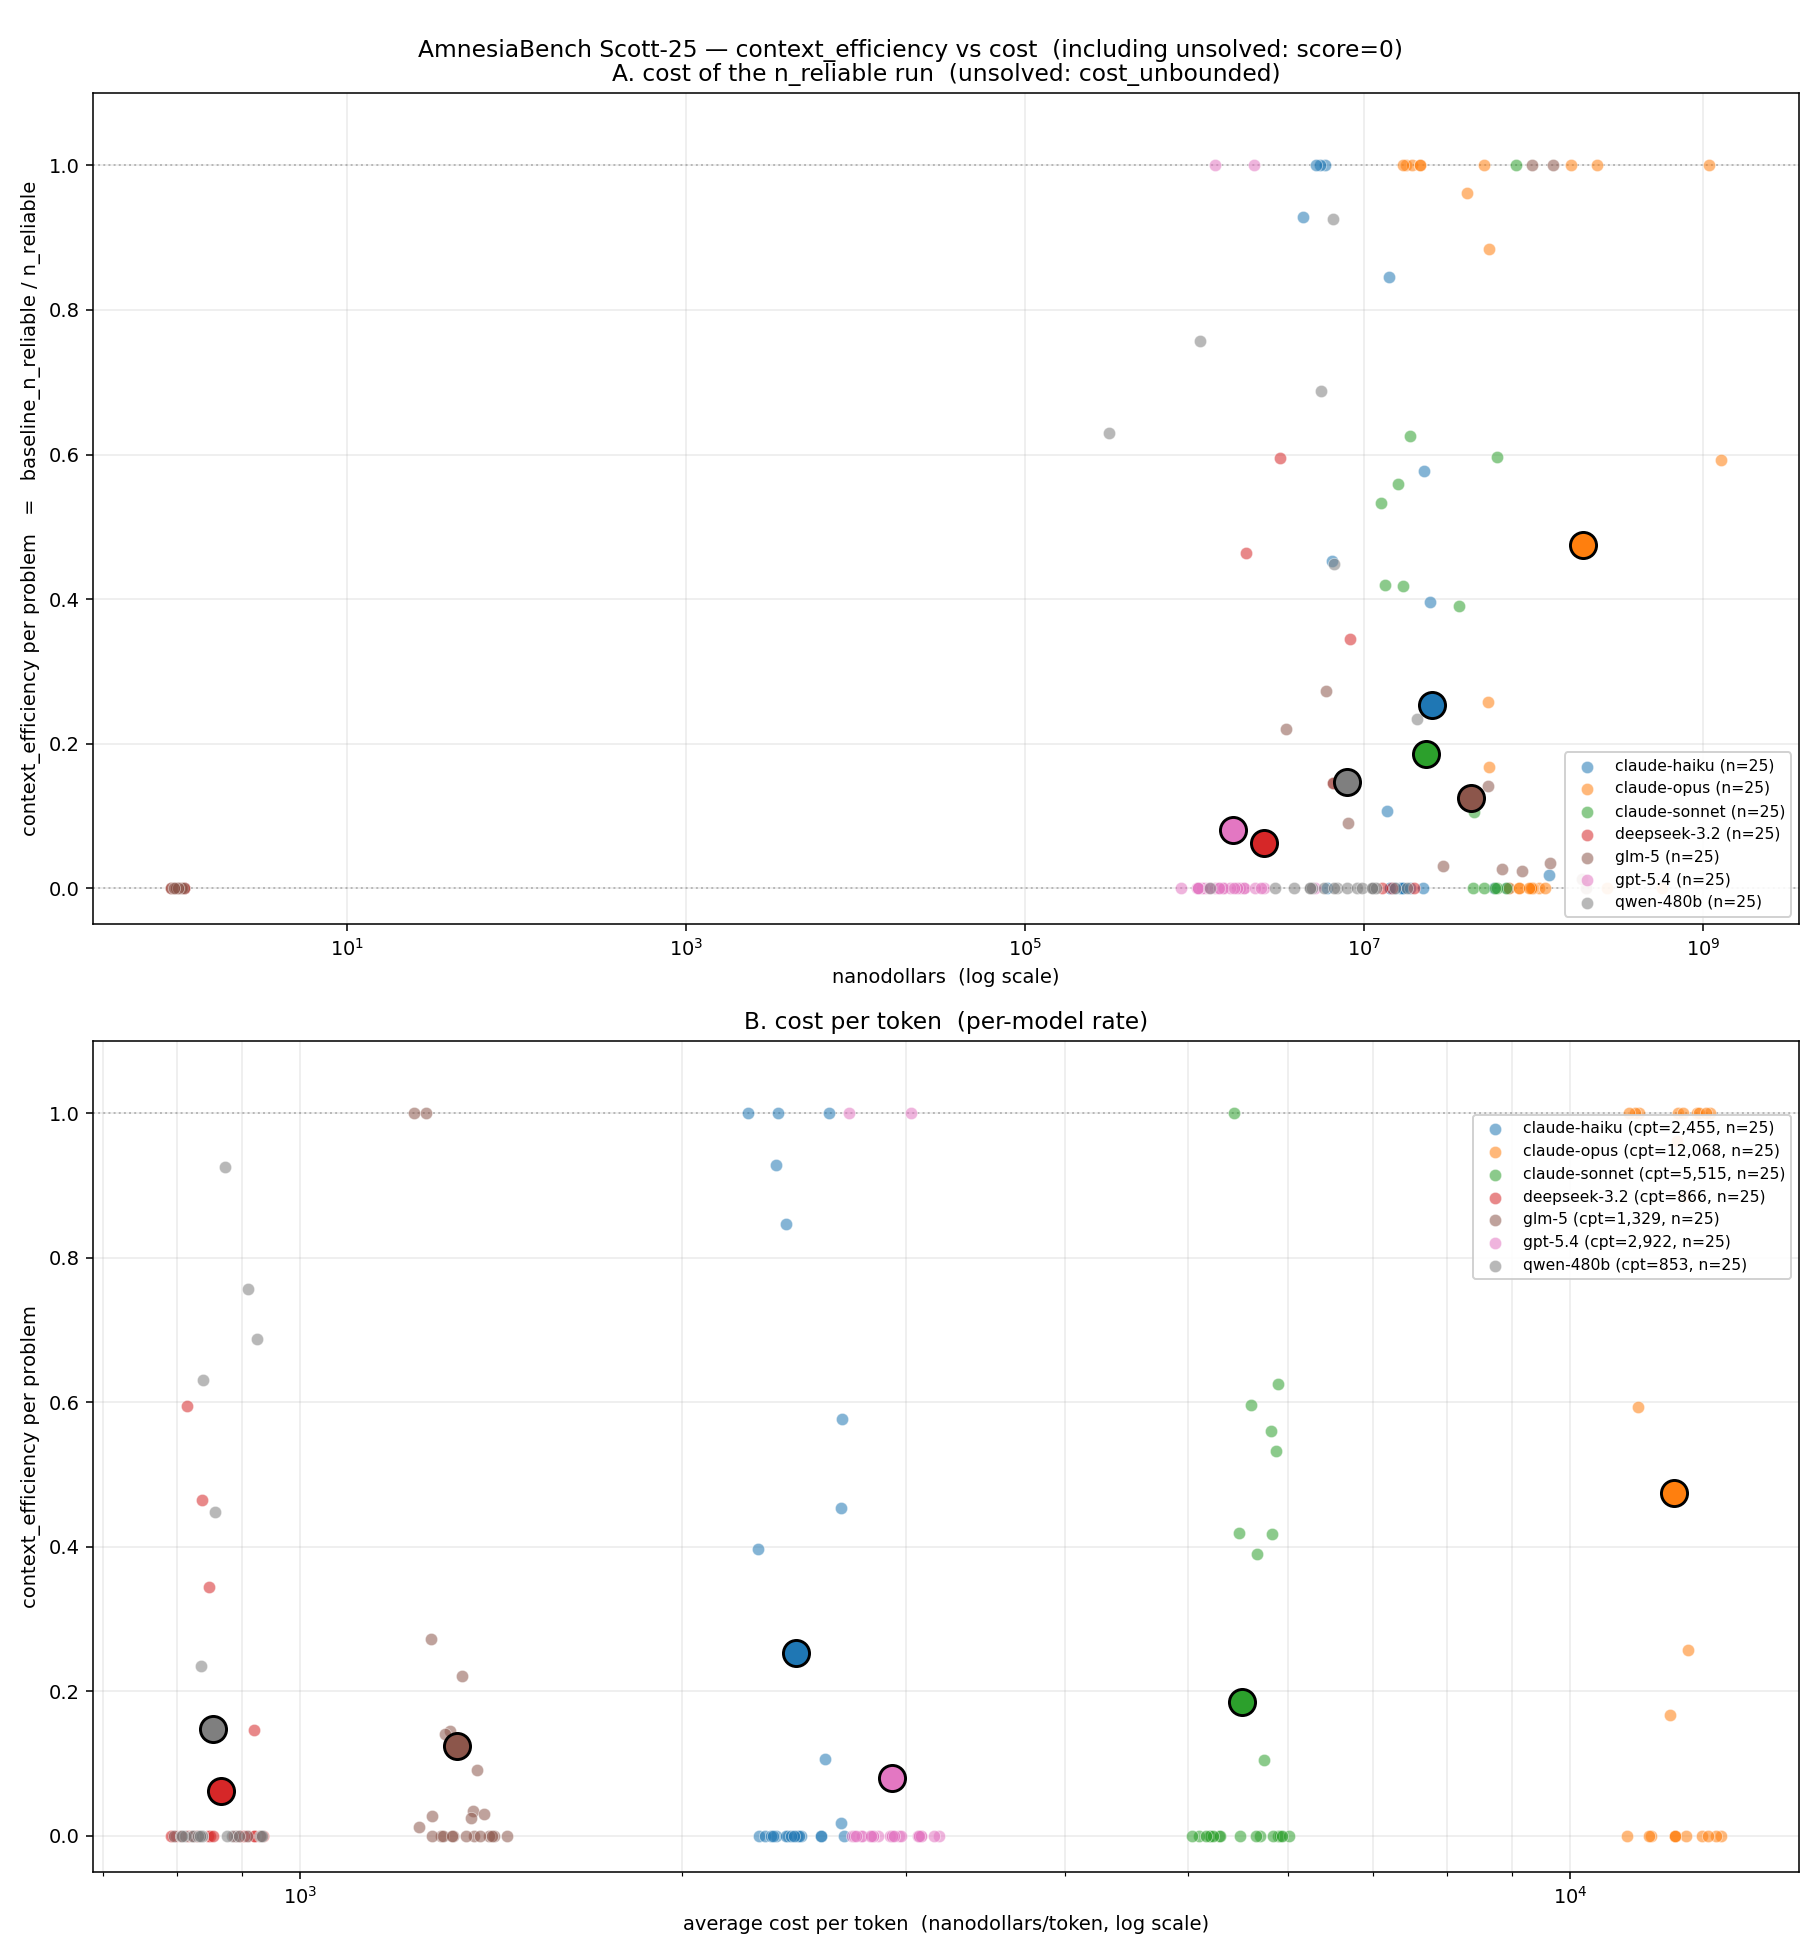
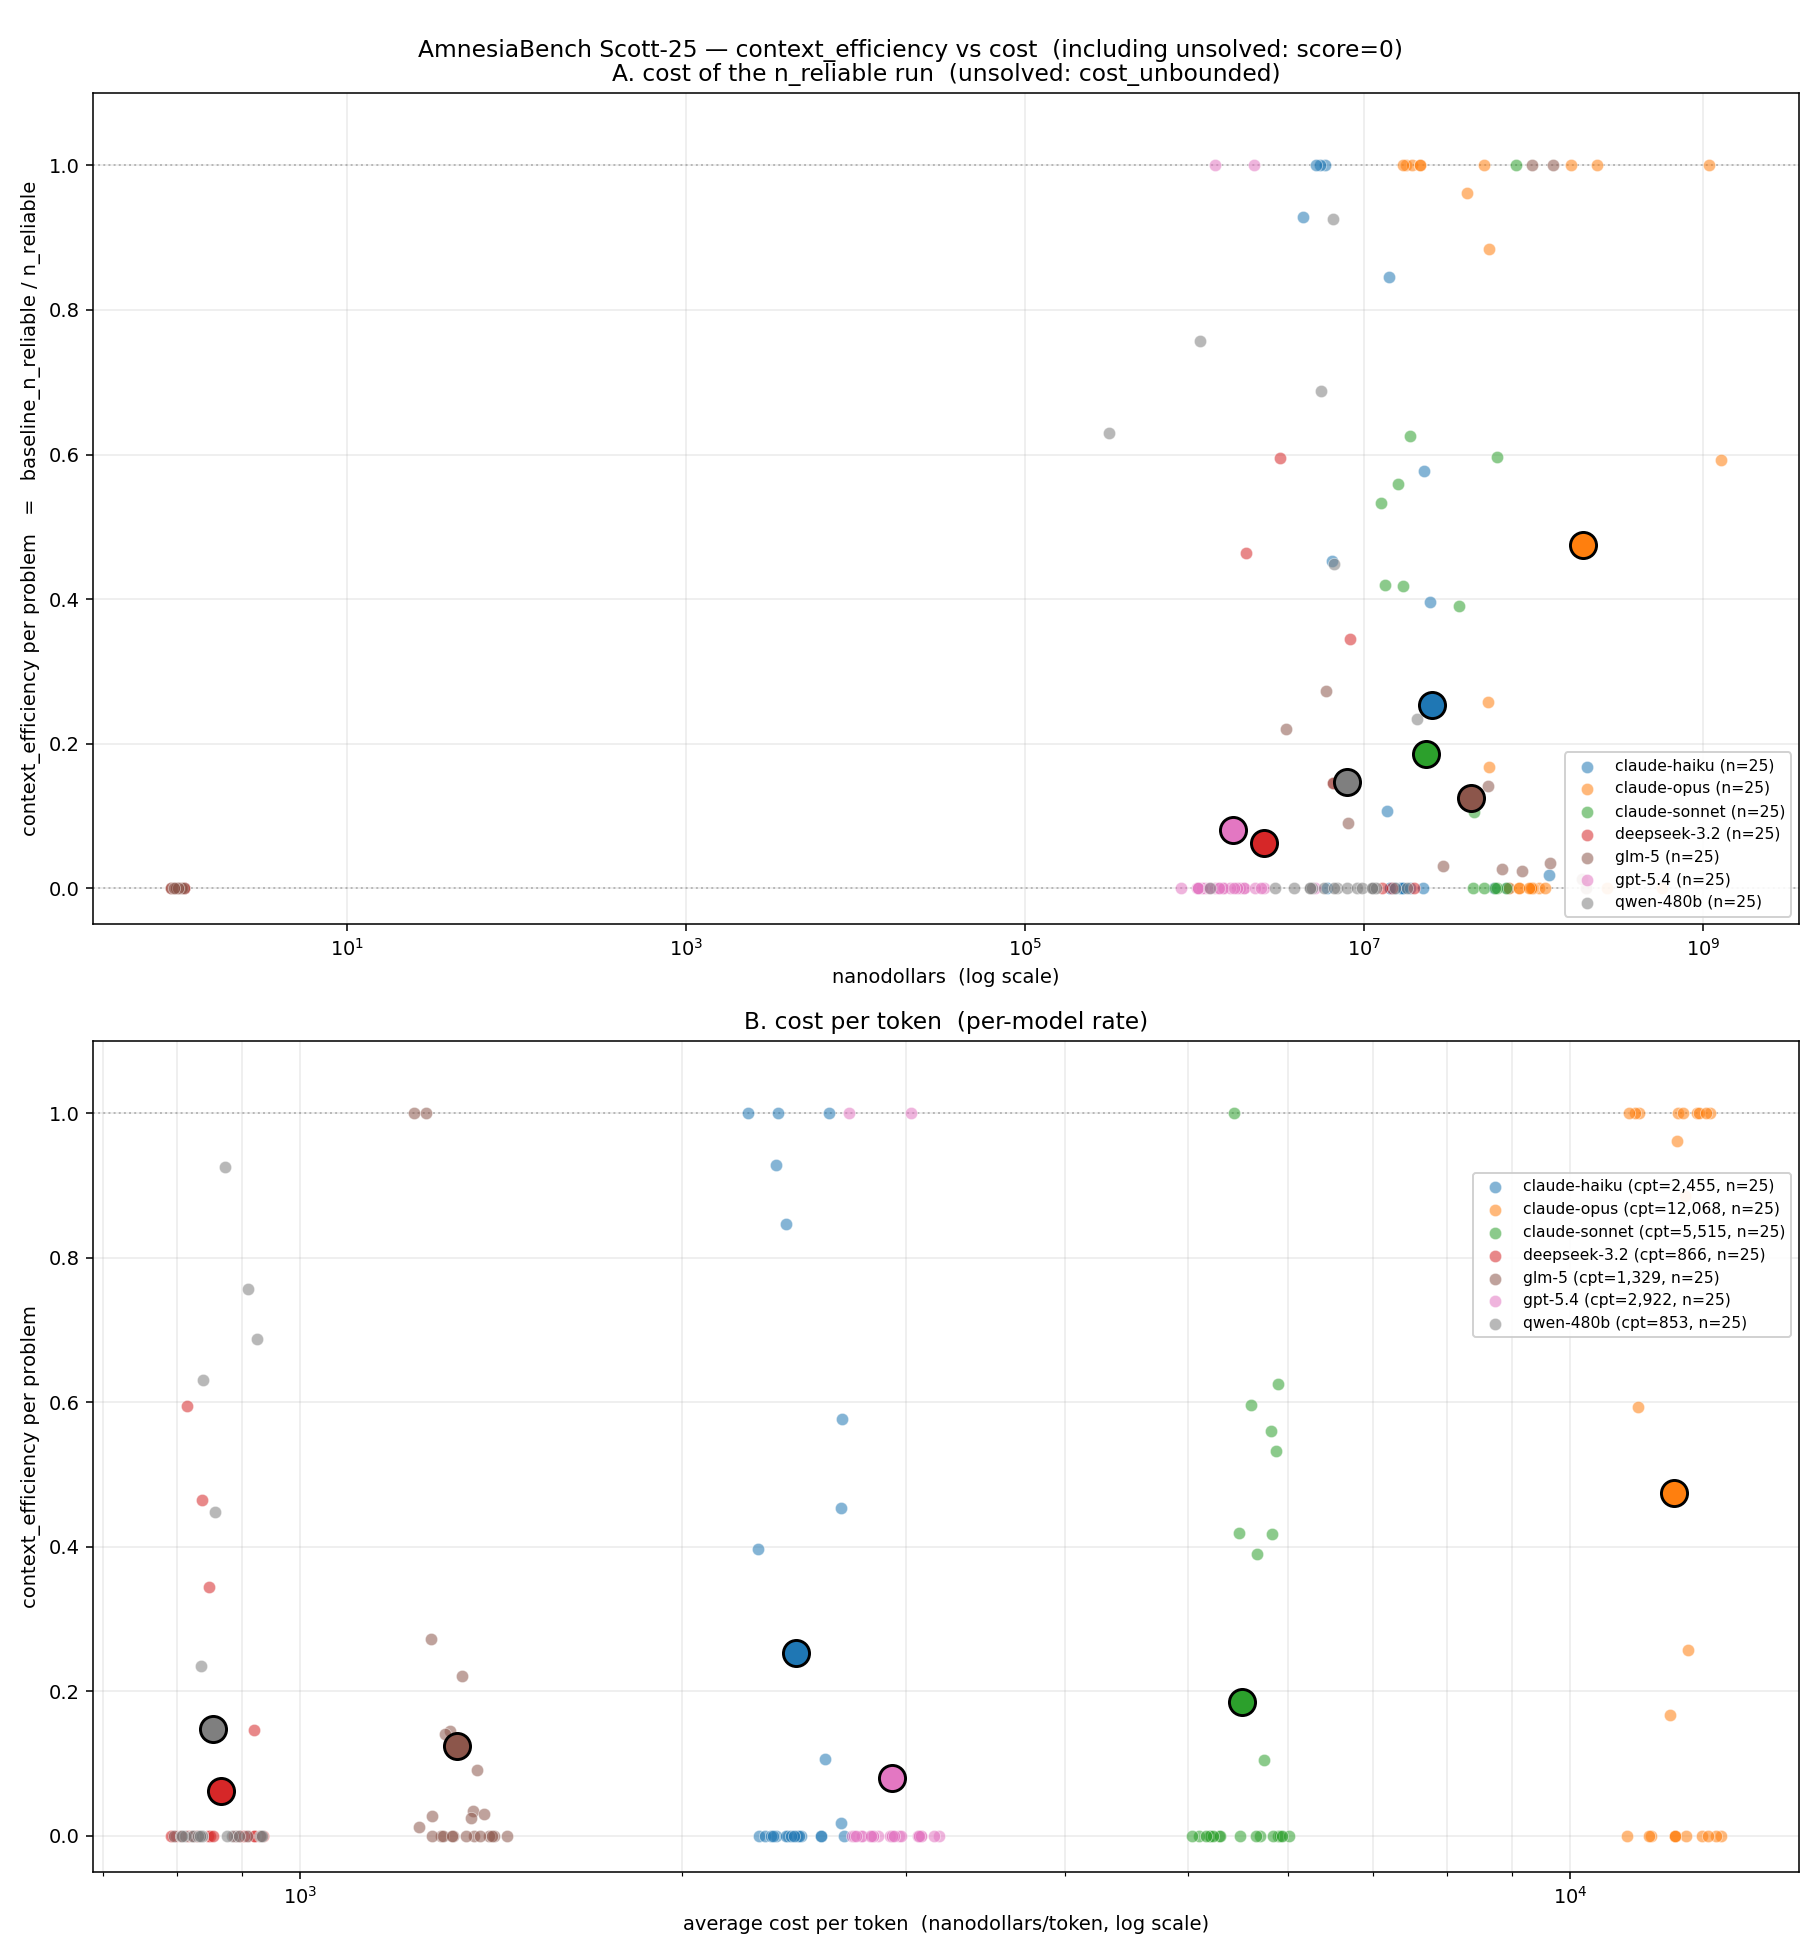
Nudge cost-per-token legend down slightly

Changed region(s): [[0.8, 0.5602, 0.9846, 0.6847]]

diff --git a/plot_cost_vs_ctxeff.py b/plot_cost_vs_ctxeff.py
@@ -182,7 +182,7 @@ def draw_cpt_panel(ax, pts_by_model, cpt, title):
     ax.set_ylim(-0.05, 1.1)
     ax.axhline(1.0, color="gray", linestyle=":", linewidth=1, alpha=0.5)
     ax.grid(True, which="both", alpha=0.25)
-    ax.legend(loc="upper right", bbox_to_anchor=(1.0, 0.92),
+    ax.legend(loc="upper right", bbox_to_anchor=(1.0, 0.85),
               fontsize=8, framealpha=0.9)
     return summary
 
